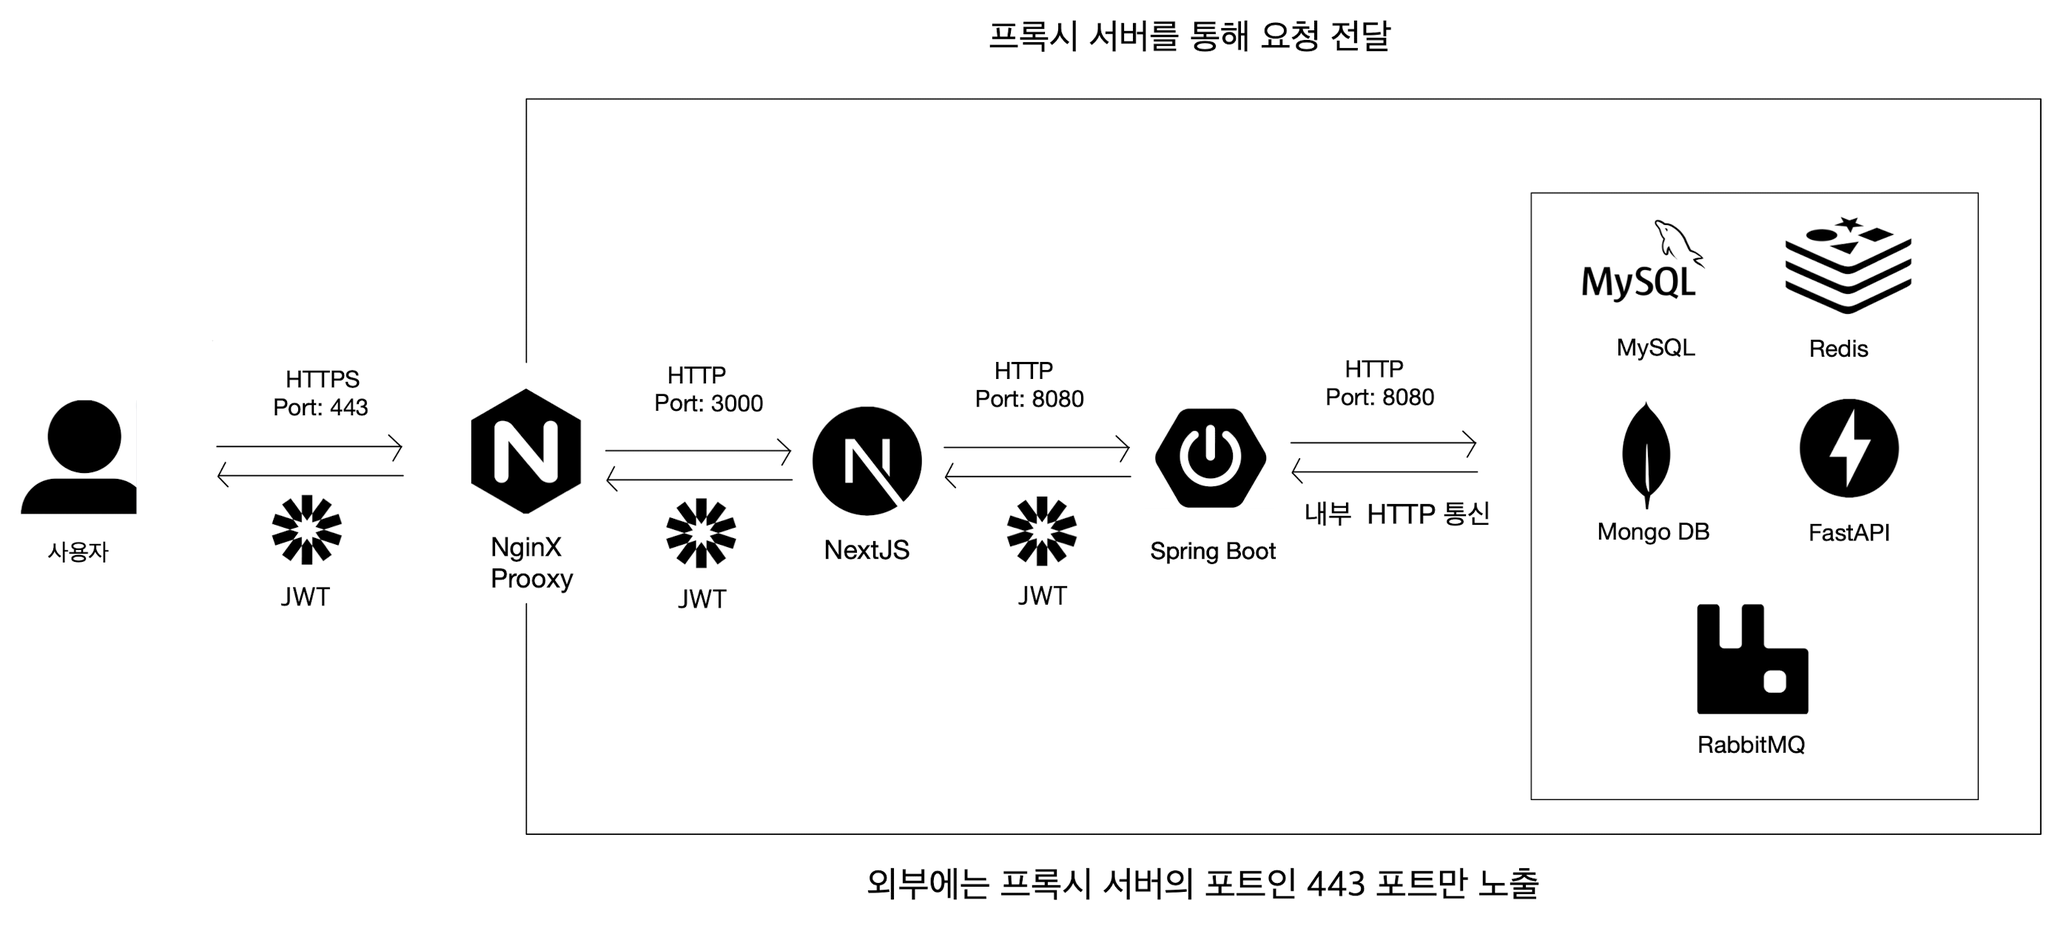
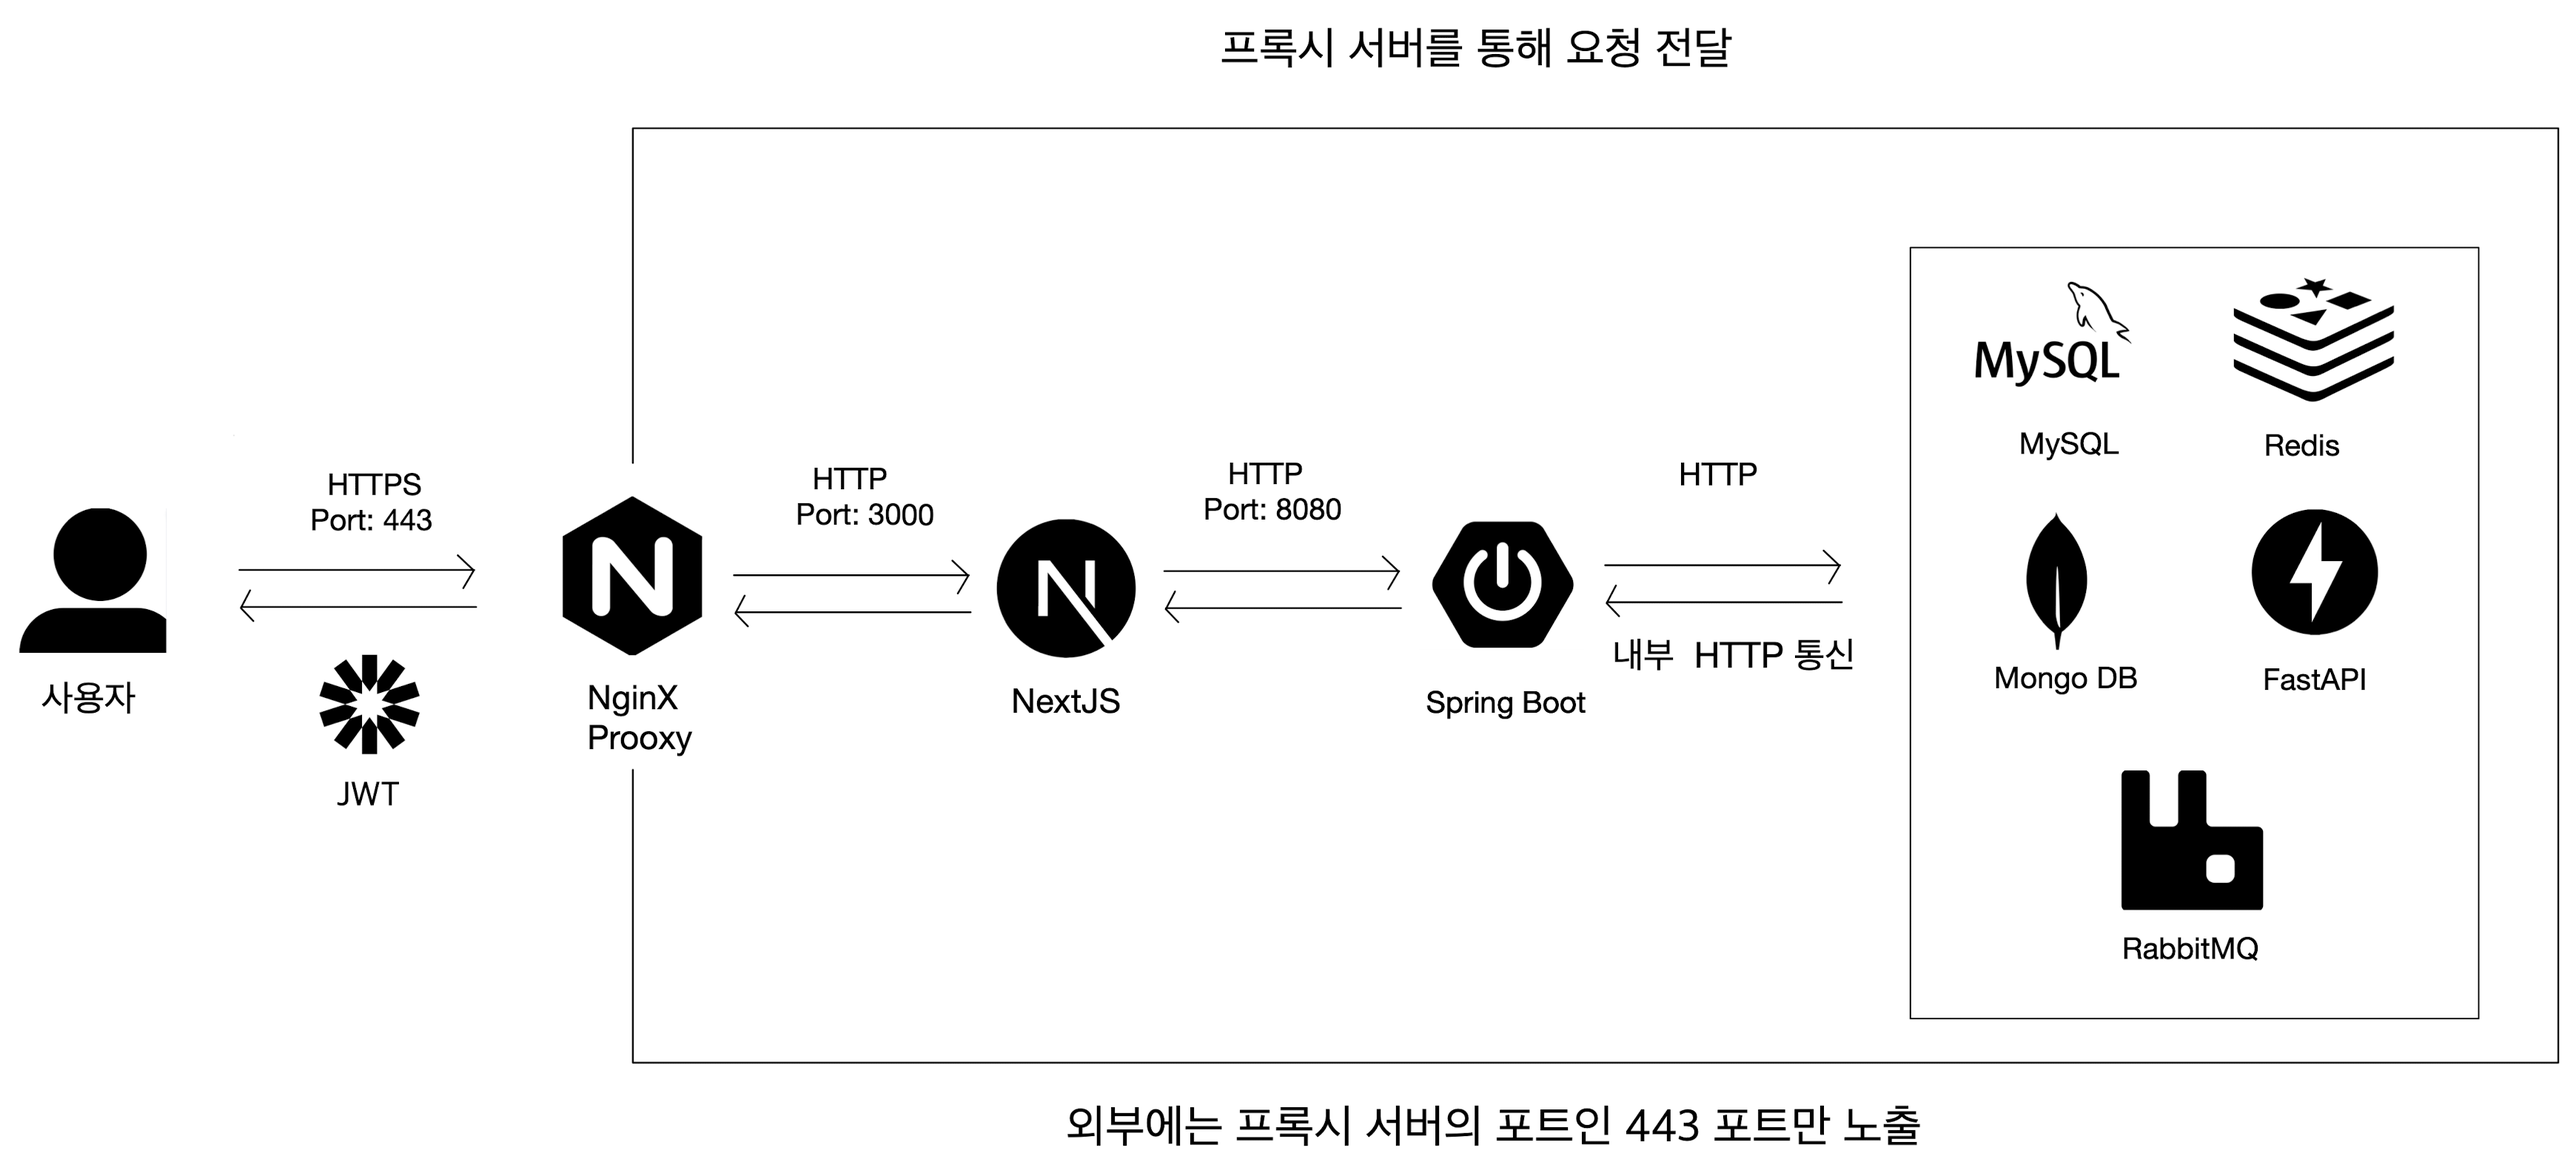
fix: README 수정

diff --git a/Spring/src/main/java/com/hong/forapw/integration/rabbitmq/RabbitMqService.java b/Spring/src/main/java/com/hong/forapw/integration/rabbitmq/RabbitMqService.java
@@ -87,7 +87,7 @@ public class RabbitMqService {
         SimpleRabbitListenerEndpoint endpoint = createListenerEndpoint(listenerId, queueName);
         endpoint.setMessageListener(message -> { // 메시지 처리 로직 설정 (자동 ACK 모드)
             try {
-                MessageDTO messageDTO = deserializeMessageToDTO(message);
+                MessageDTO messageDTO = deserializeAmqpToMessageDTO(message);
                 messageService.saveMessage(messageDTO);
                 alarmService.sendAlarmToChatRoomUsers(messageDTO);
             } catch (Exception e) { // 예외를 그대로 던져서 Spring Retry가 재시도 처리하도록 함
@@ -114,7 +114,7 @@ public class RabbitMqService {
     }
 
     // AMQP 메시지를 MessageDTO 객체로 변환
-    private MessageDTO deserializeMessageToDTO(org.springframework.amqp.core.Message amqpMessage) {
+    private MessageDTO deserializeAmqpToMessageDTO(org.springframework.amqp.core.Message amqpMessage) {
         return (MessageDTO) converter.fromMessage(amqpMessage);
     }
 

diff --git a/README.md b/README.md
@@ -96,7 +96,7 @@ ii. 보호소는 일손 부족, 봉사자는 참여 기회 부족</br>
 > - 공공 데이터 API는 유기동물 및 보호소의 **상세 정보**를 제공. 
 > - Google Maps API는 보호소 주소를 위도·경도로 변환하여 **위치** 데이터를 제공. </br>
 > - RabbitMQ는 채팅 시스템에서 **메시지 브로커** 역할을 하고, 안정적인 비동기 메시지 전송을 담당. </br>
-> - MongoDB는 채팅 데이터를 **저장**하여 대화 기록을 관리하고, 빠른 검색을 지원.
+> - MongoDB는 채팅 데이터를 **저장**하여 대화 기록을 관리.
 > - JWT를 활용해 사용자 **인증**을 처리하고, Google OAuth 및 Kakao OAuth로 간편 로그인을 제공.
 </br>
 
@@ -104,12 +104,11 @@ ii. 보호소는 일손 부족, 봉사자는 참여 기회 부족</br>
 <img width="900" alt="12" src="./images/12.png">
 </br>
 
-> - 모든 트래픽은 Nginx(443 포트)를 통해 암호화된 **HTTPS**로만 접근 가능하며, Let’s Encrypt SSL 인증서를 적용하여 보안 강화.
-> - **내부 네트워크**에서만 Spring Boot ↔ MySQL, Redis, MongoDB, FastAPI, RabbitMQ 간 통신 수행.
-> - Refresh Token은 httpOnly Secure 쿠키를 통해 전달되어 **XSS** 공격을 방지하고, SameSite 속성을 설정하여 **CSRF** 공격을 차단.
-> - Access Token **만료** 시, Next.js가 Refresh Token을 활용하여 Spring Boot에  새로운 Access Token **발급** 요청.
+> - 모든 트래픽은 Nginx를 통해 암호화된 **HTTPS**로만 접근 가능하며, Let’s Encrypt SSL 인증서를 적용하여 보안 강화.
+> - EC2 보안 그룹에서 443 포트를 제외한 모든 포트를 차단하고, 어플리케이션 간 통신은 **내부 네트워크**(HTTP)에서만 이루어지도록 구성.
+> - Refresh Token을 httpOnly·Secure 쿠키에 저장해 **XSS**를 통한 토큰 탈취를 방지하고, SameSite(Lax) 설정으로 외부 요청 시 쿠키 자동 전송을 막아 **CSRF** 공격을 차단.
+> - Access Token **만료** 시, Next.js는 쿠키에 저장된 Refresh Token을 이용해 Spring에 새로운 Access Token을 요청하여, 사용자 재로그인 없이 인증 상태 유지.
 > - JPA의 **파리미터 바인딩**을 활용한 안전한 쿼리 실행으로 **SQL Injection** 방지.
-> - **Rate Limiting**을 적용하여 대량의 요청을 차단하고, **CORS** 정책을 통해 허용된 도메인에서만 API 접근 가능하도록 설정.
 
 </br>
 
